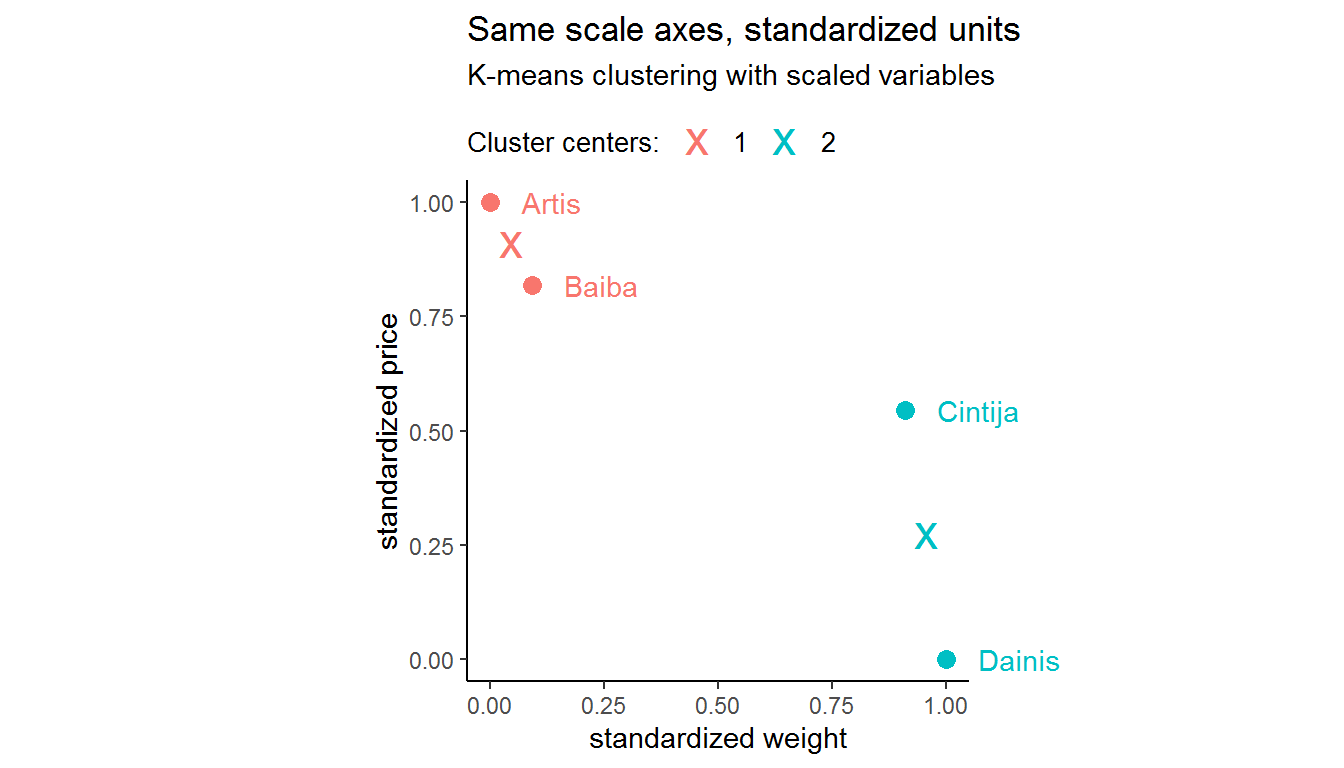
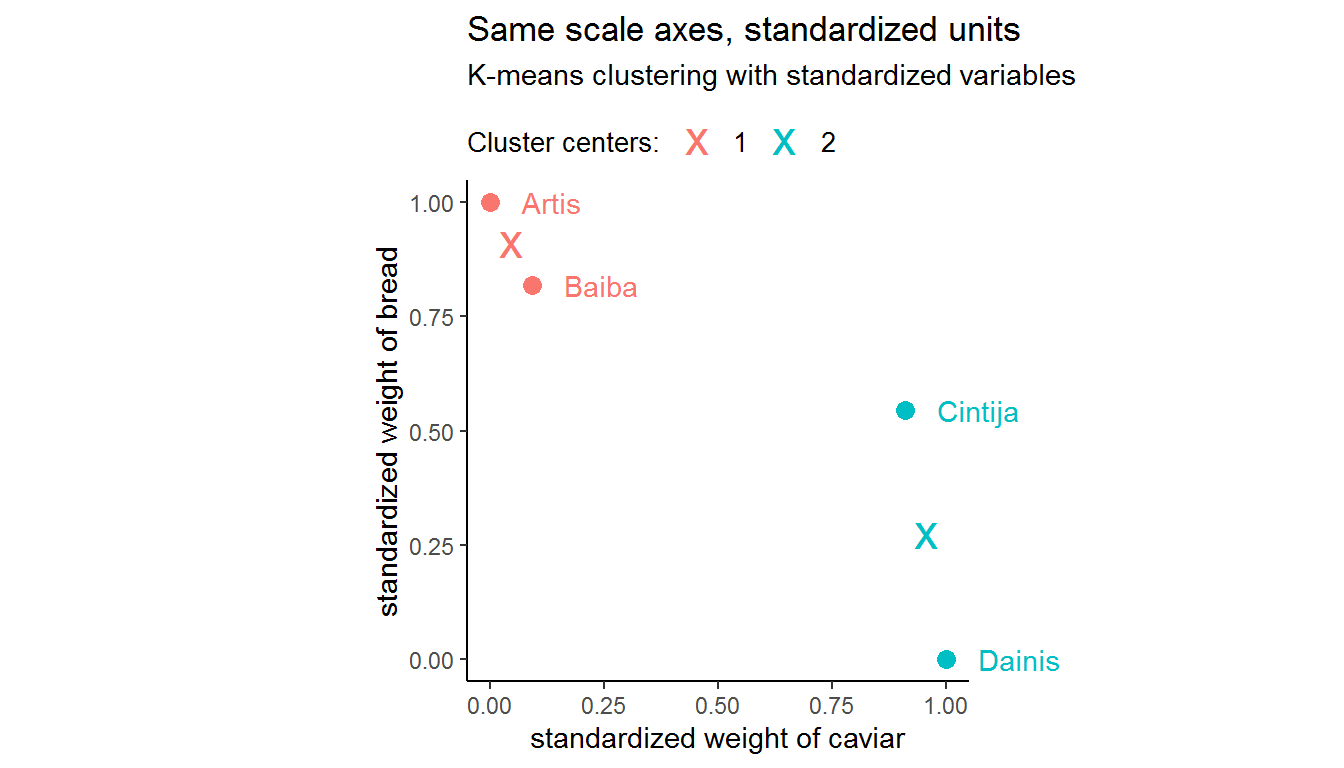
Fixed misc. typos.

Changed region(s): [[0.4062, 0.9375, 0.6875, 1.0], [0.2812, 0.3125, 0.3125, 0.8125], [0.5938, 0.0625, 0.8125, 0.125]]

diff --git a/content/post/2019-07-27-effect-of-not-standardizing-variables-in-k-means-clustering.html b/content/post/2019-07-27-effect-of-not-standardizing-variables-in-k-means-clustering.html
@@ -127,13 +127,13 @@ set.seed(1)
 kmeans_orig &lt;- kmeans(groceries_num, centers = 2)</code></pre>
 <p>The result is plotted below with Dainis being alone in cluster 2 and all other customers in cluster 1. Hopefully, you are surprised.</p>
 <p><img src="/post/2019-07-27-effect-of-not-standardizing-variables-in-k-means-clustering_files/figure-html/plot_kmeans_orig-1.png" width="576" style="display: block; margin: auto;" /></p>
-<p>The catch is in the visualization - notice that x and y axes have different scales. The length of one unit on the x axis (i.e. 1 kilo of caviar) is exactly 20 times shorter than the length of one unit on the y axis (i.e. 1 kilo of bread). As a result, diagonal distances are hard to evaluate visually. It seems that Cintija is closer to Dainis than to Baiba. But it’s an illusion. Note the distances on the plot below:</p>
+<p>The catch is in the visualization - notice that x and y axes have different scales. The length of one unit on the x axis (i.e. 1 kilo of caviar) is exactly 20 times longer than the length of one unit on the y axis (i.e. 1 kilo of bread). As a result, diagonal distances are hard to evaluate visually. It seems that Cintija is closer to Dainis than to Baiba. But it’s an illusion. Note the distances on the plot below:</p>
 <p><img src="/post/2019-07-27-effect-of-not-standardizing-variables-in-k-means-clustering_files/figure-html/plot_kmeans_orig_with_dist-1.png" width="576" style="display: block; margin: auto;" /></p>
 <p>All pairwise Euclidean distances can be calculated with <code>dist()</code>:</p>
 <pre class="r"><code># Add rownames to see customer names in a distance matrix.
 groceries_num &lt;- as.data.frame(groceries_num)
 rownames(groceries_num) &lt;- groceries_df$customer
-# Euclidean distances.
+# Euclidean distances in kilos.
 round(dist(groceries_num), 1)</code></pre>
 <pre><code>##         Artis Baiba Cintija
 ## Baiba     1.0              
@@ -148,7 +148,7 @@ round(dist(groceries_num), 1)</code></pre>
 <h1>Standardized variables</h1>
 <p>Different standardization methods are available, including z-standardization (also called z-score standardization) and range standardization. Z-standardization rescales each variable <span class="math inline">\(X\)</span> by subtracting its mean <span class="math inline">\(\bar{x}\)</span> and dividing by its standard deviation <span class="math inline">\(s\)</span>:</p>
 <p><span class="math display">\[Z=\frac{X-\bar{x}}{s}.\]</span></p>
-<p>After z-standardization each variable has a mean <span class="math inline">\(\bar{x}\)</span> of 0 and a standard deviation <span class="math inline">\(s\)</span> of 1. Z-standardization can be done with <code>scale()</code>.</p>
+<p>After z-standardization each variable has a mean <span class="math inline">\(\bar{z}\)</span> of 0 and a standard deviation <span class="math inline">\(s\)</span> of 1. Z-standardization can be done with <code>scale()</code>.</p>
 <p>In cluster analysis, however, range standardization (e.g., to a range of 0 to 1) typically works better <span class="citation">(Milligan and Cooper 1988)</span>. Range standardization requires subtracting the minimum value and then dividing it by the range (i.e., the difference between the maximum and minimum value):</p>
 <p><span class="math display">\[R = \frac{X - X_{min}}{X_{max} - X_{min}}\]</span></p>
 <p>We can write a one-line function to perform range standardization:</p>
